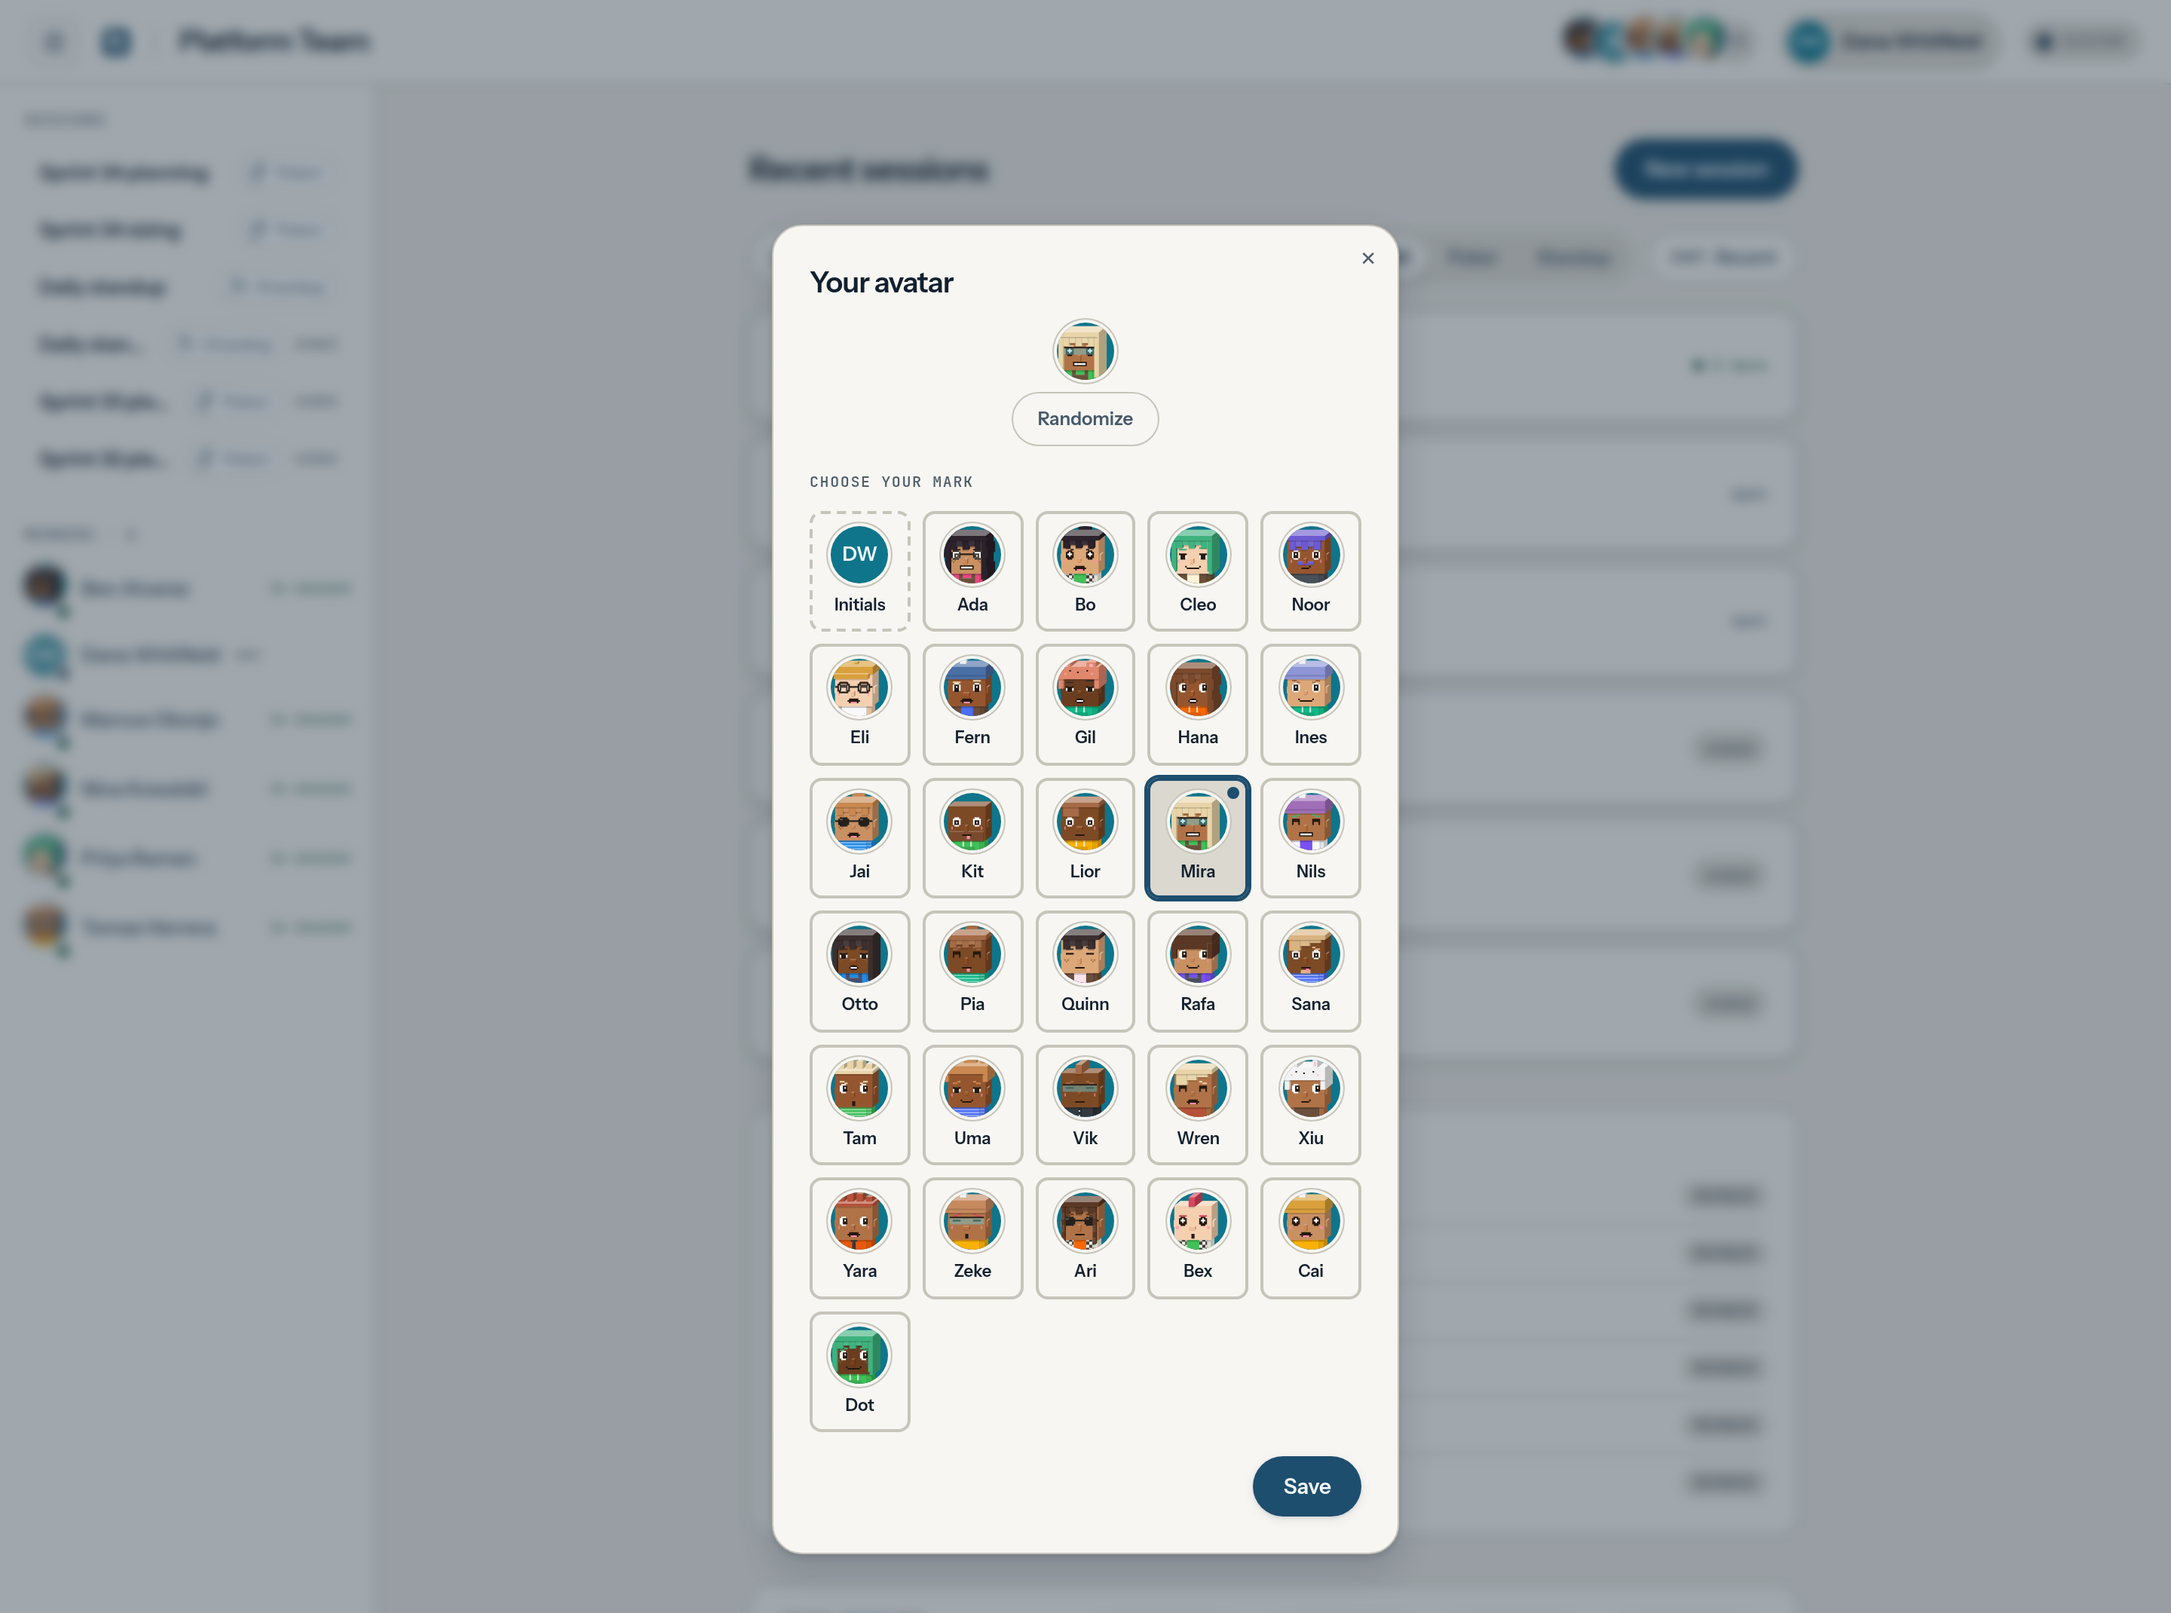
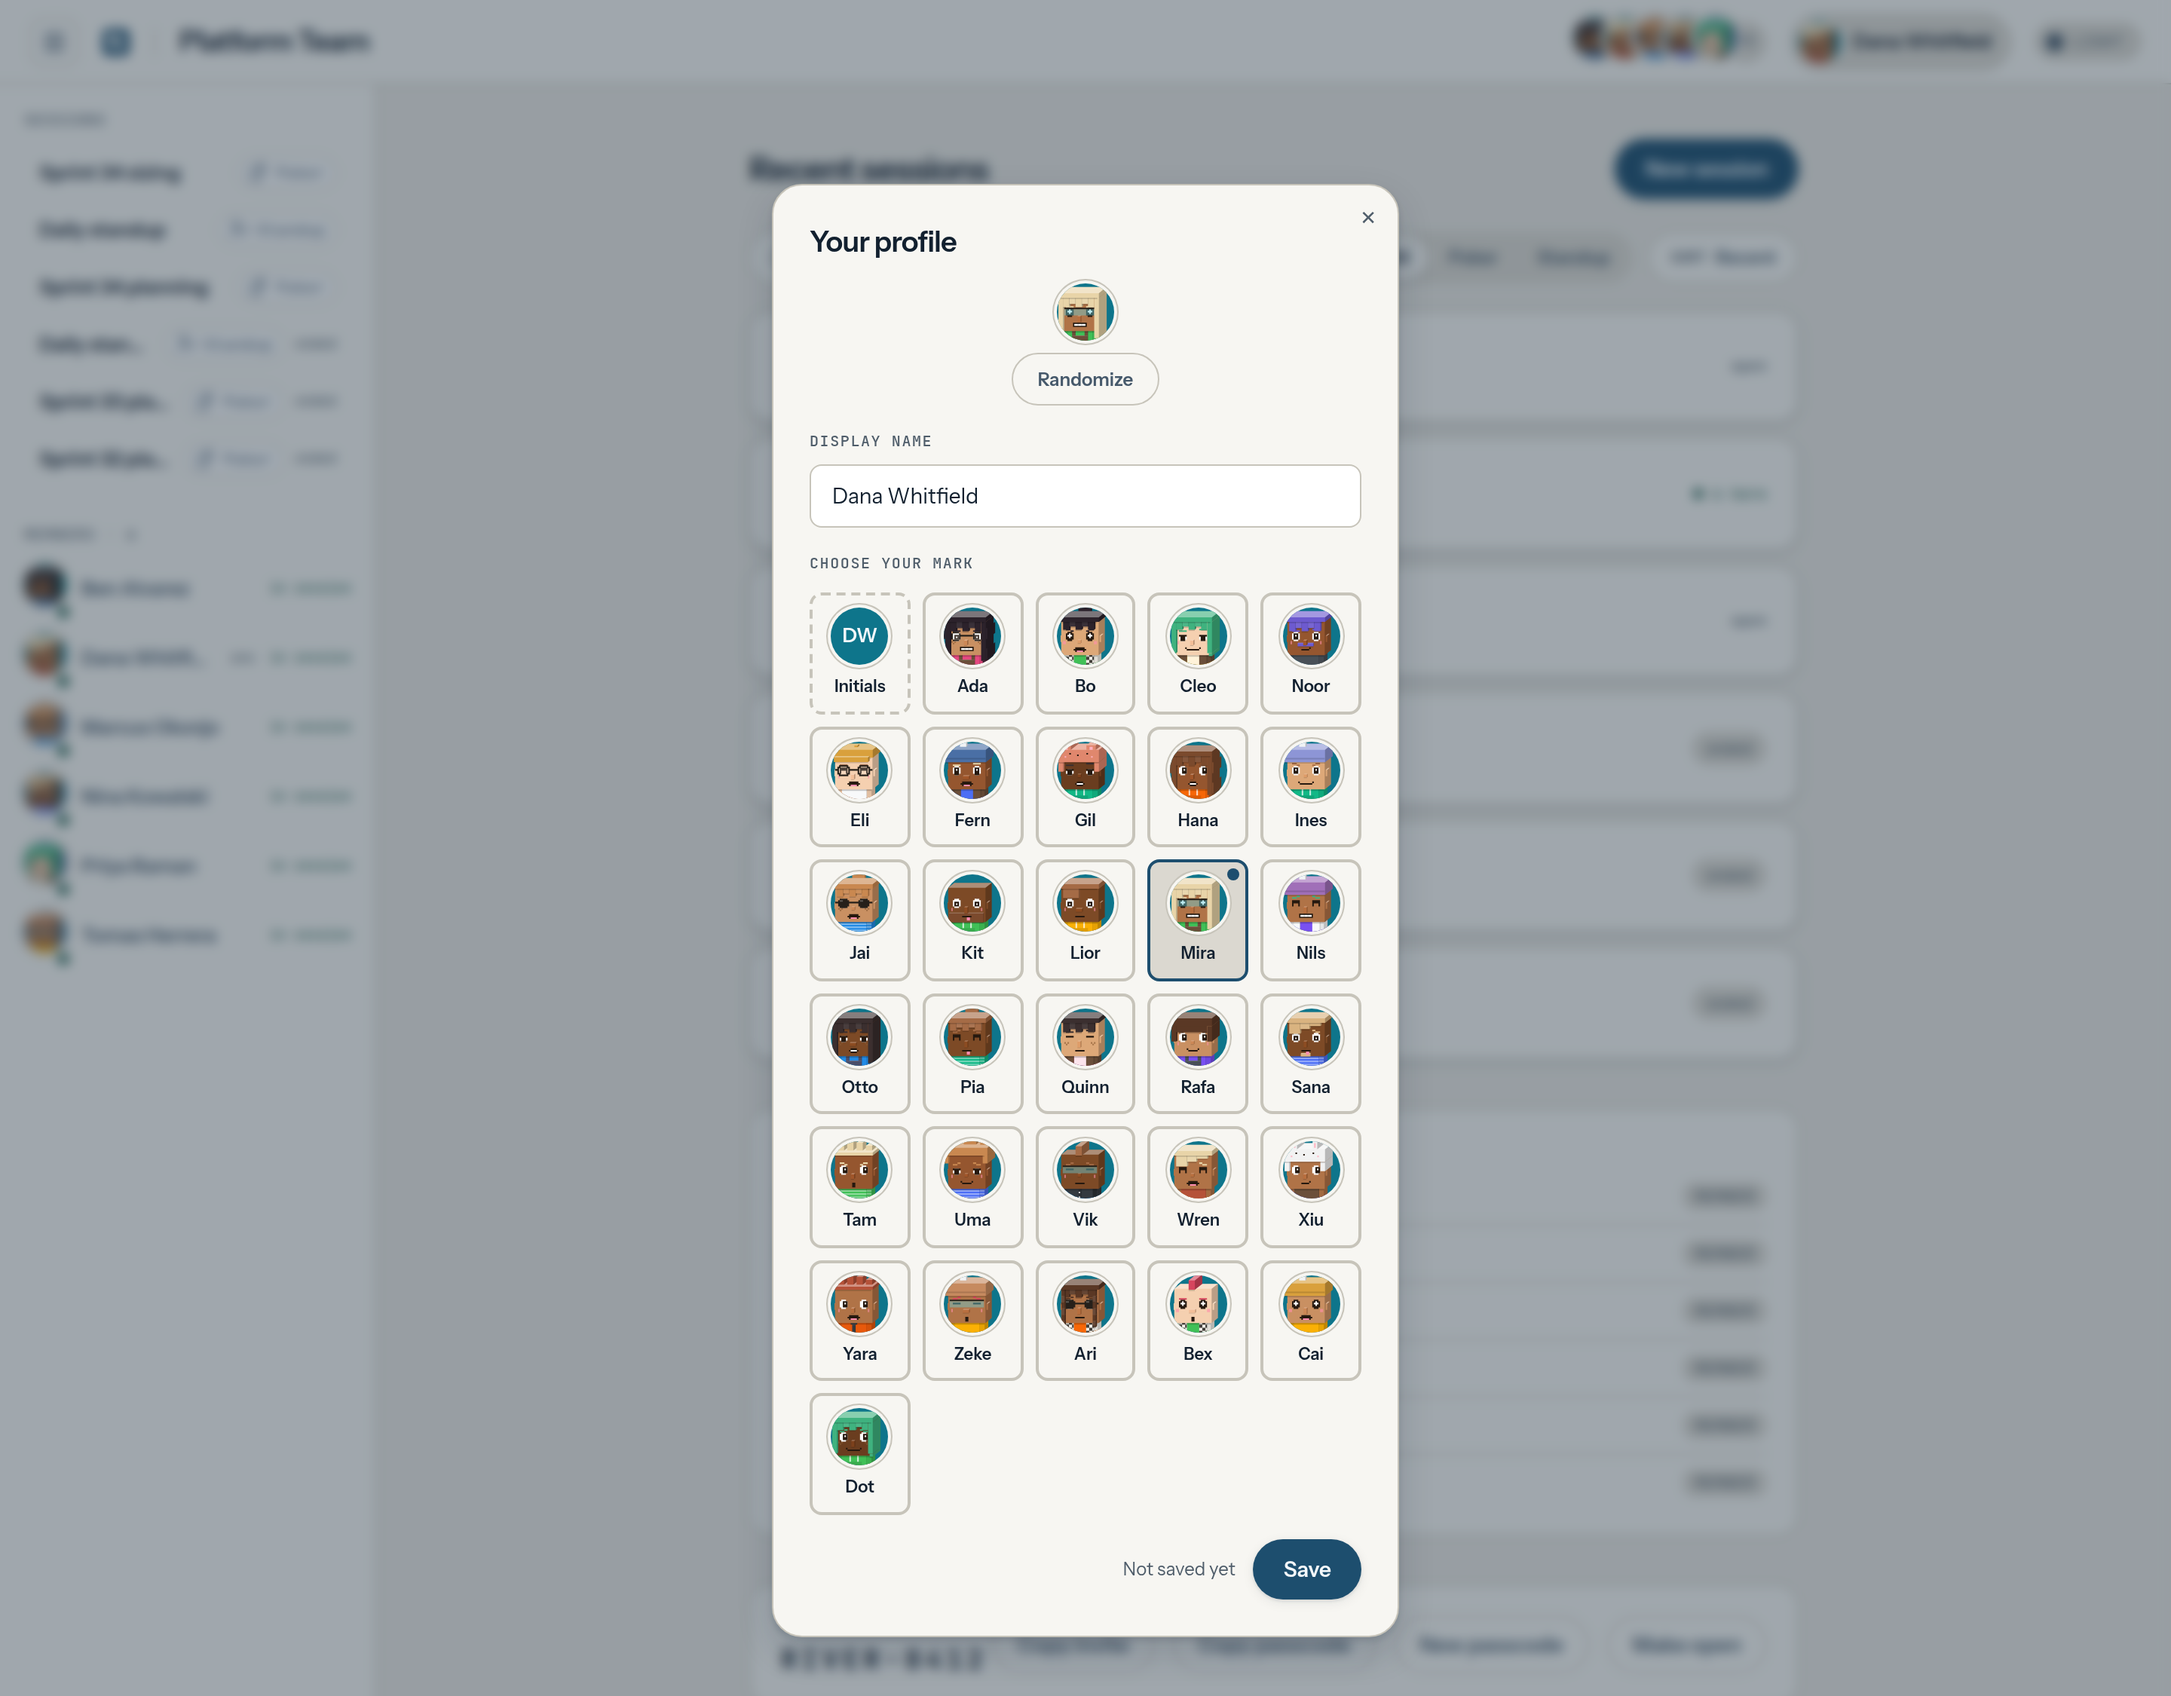
docs(site): re-shoot the space page and profile dialog, and stop the passcode wrapping (#281)
* fix(web): keep the space passcode on one line

Renaming the buttons to "Copy passcode" and "New passcode" in #274 widened
the button row enough to push RIVER-8412 onto two lines, breaking the code
mid-token. It is the one string on that panel that gets read out loud, so
it is the one thing that must not wrap.

Found by re-shooting the marketing screenshot, which is the only place the
panel is rendered at a pinned width — every test asserts on text, not
layout, so nothing caught it.

The button row wraps instead, which it could already do.

* docs(site): re-shoot the space page and the profile dialog

PR #274 renamed the passcode buttons and turned the avatar dialog into a
profile dialog, which left two pairs on the docs site showing a UI that no
longer exists — and the space page's caption already described the new
buttons, so the image and its own alt text disagreed.

Re-shot against a source build at ee6de65 with the seeded cast: the space
page (Copy invite, Copy passcode, New passcode, Make open) and the profile
dialog (Your profile, a Display name field, Mira selected, Save live).

Skipped everything else deliberately. The only header change #274 made was
removing a Sign out button gated on `mode === "oidc"`, and the demo runs in
open mode, so it never rendered in any shot: poker, story queue, hidden
votes, the theme composite, the T-shirt result, both standup shots and the
four README shots are pixel-identical. session-history keeps its framing
[…]

diff --git a/web/src/pages/SpacePage.tsx b/web/src/pages/SpacePage.tsx
@@ -682,7 +682,14 @@ function PasscodePanel({
           Space passcode
         </h2>
         {passcode ? (
-          <p className="mt-1 font-mono text-lg font-semibold tracking-[0.16em]">{passcode}</p>
+          /* Never break the code itself. Renaming the buttons to "Copy
+             passcode" and "New passcode" widened the row enough to wrap
+             RIVER-8412 across two lines, which is unreadable for the one
+             string on this panel that gets read out loud. The button row is
+             the thing that should wrap instead — it already can. */
+          <p className="mt-1 whitespace-nowrap font-mono text-lg font-semibold tracking-[0.16em]">
+            {passcode}
+          </p>
         ) : (
           <p className="mt-1 text-[13px] text-ink-soft">
             Open — anyone with the link can take a seat.
